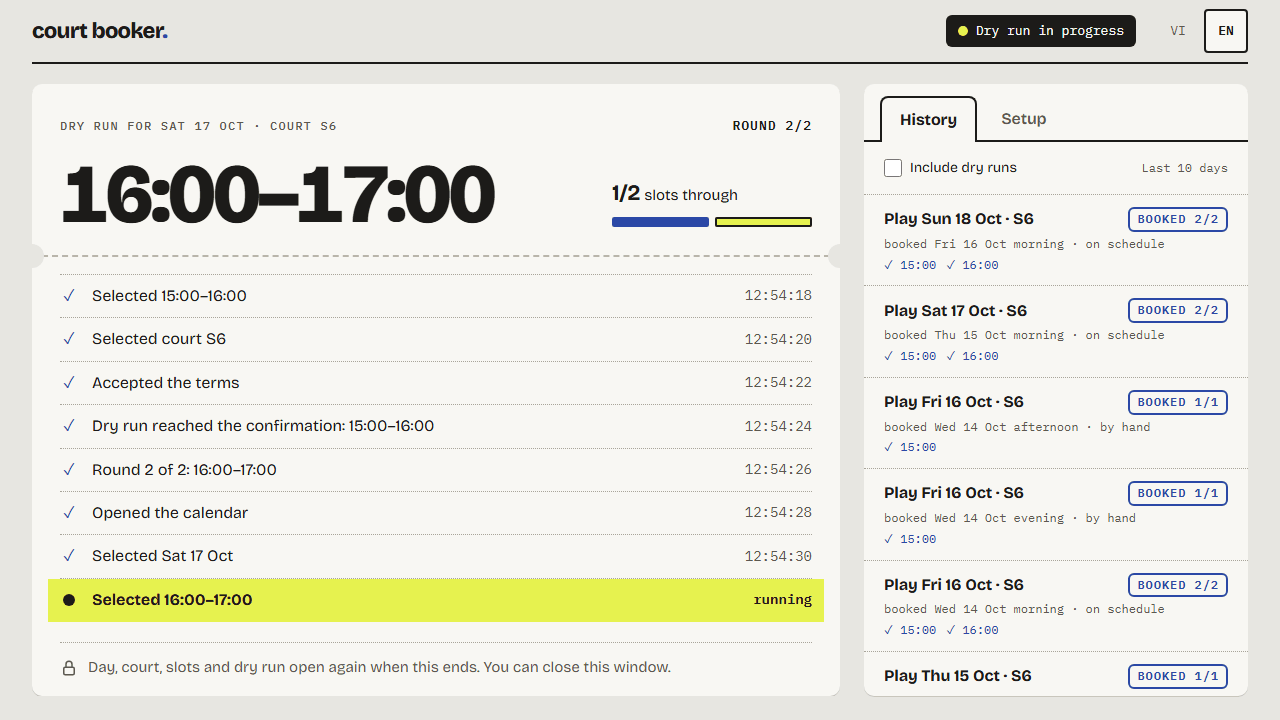
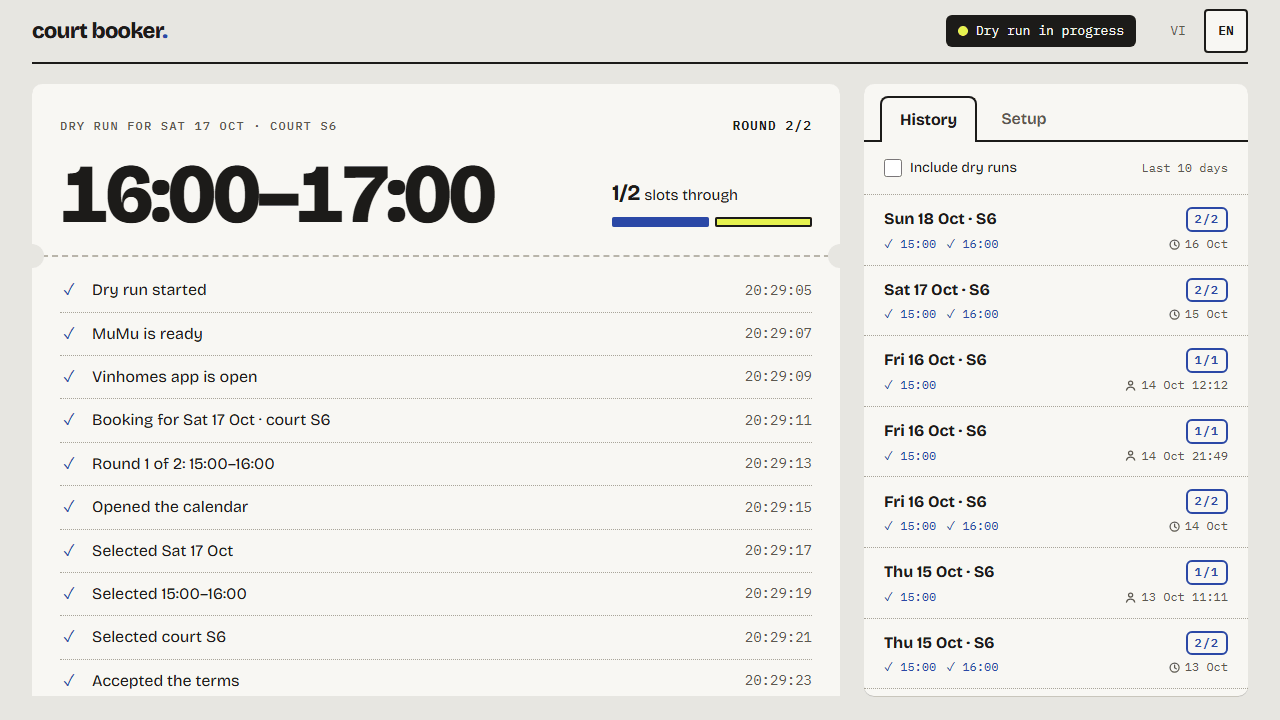
feat: show each run of the History in two lines
A row names the play day with a short weekday and the court, with a count
(2/2, 1/2, 0/2; THỬ for a dry run) in place of the worded stamp, then the
slots and when the run started after a clock (on schedule) or a person (by
hand). Why a slot failed shows on hover and to screen readers; the run
itself keeps the full stamp and the reasons. README screenshots retaken.

diff --git a/ui/src/pages/home/HistoryTab.tsx b/ui/src/pages/home/HistoryTab.tsx
@@ -3,16 +3,17 @@ import { Link, useSearchParams } from "react-router";
 import { useRunDays } from "../../api/queries";
 import type { RunSummary } from "../../api/types";
 import { Button } from "../../components/Button";
+import { Icon, type IconName } from "../../components/Icon";
 import { QueryView } from "../../components/QueryView";
 import { EmptyState } from "../../components/States";
 import { Stamp } from "../../components/Stamp";
 import { DAYS_SHOWN, runDay } from "../../days";
 import { failureReason } from "../../reasons";
-import { runStamp } from "../../runs";
+import { runMark, runOrigin, runStamp } from "../../runs";
 import { useFormat } from "../../useFormat";
 import styles from "./HistoryTab.module.css";
 import { RunDetail } from "./RunDetail";
-import { runTitle, runWhen } from "./runText";
+import { runShortTitle } from "./runText";
 
 /** Return the run asked for in the address (`?run=12`), if it is a run id. */
 function requestedRun(params: URLSearchParams): number | undefined {
@@ -21,8 +22,9 @@ function requestedRun(params: URLSearchParams): number | undefined {
 }
 
 /**
- * Each slot of a run by its start: "✓ 18:00", "✕ 19:00 Hết chỗ"; a dry run marks a slot it
- * went through with "○", having booked nothing. A run that stopped before any slot says why.
+ * Each slot of a run by its start: "✓ 18:00", "✕ 19:00"; a dry run marks a slot it went
+ * through with "○", having booked nothing. Why a slot failed shows on hover and in the run
+ * itself, so the row stays one line. A run that stopped before any slot says why.
  */
 function SlotMarks({ run }: { run: RunSummary }) {
   const { t } = useTranslation();
@@ -39,9 +41,11 @@ function SlotMarks({ run }: { run: RunSummary }) {
       {run.slots.map(({ slot, ok, reason }) => {
         const start = f.slotStart(slot);
         if (!ok) {
+          const why = failureReason(t, f, reason);
           return (
-            <span key={slot} className={styles.failed}>
-              ✕ {start} {failureReason(t, f, reason)}
+            <span key={slot} className={styles.failed} title={why}>
+              ✕ {start}
+              <span className="visually-hidden"> {why}</span>
             </span>
           );
         }
@@ -57,22 +61,61 @@ function SlotMarks({ run }: { run: RunSummary }) {
   );
 }
 
-/** One run: what it booked, its stamp, when and how it went, and each slot; it opens the run. */
+/** The icon of how a run started: a clock on schedule, a person by hand or as a dry run. */
+const ORIGIN_ICONS: Record<string, IconName> = {
+  scheduled: "clock",
+  manual: "person",
+  dry_run: "person",
+};
+
+/**
+ * When a run started, short ("15/10 08:32", the day alone on schedule), after the icon of how
+ * it started; the MuMu instance of a run beside the first ends it.
+ */
+function StartedAt({ run }: { run: RunSummary }) {
+  const { t } = useTranslation();
+  const f = useFormat();
+  const origin = runOrigin(t, run.trigger);
+  const icon = ORIGIN_ICONS[run.trigger];
+  return (
+    <span className={styles.when} title={origin}>
+      {icon !== undefined && <Icon name={icon} />}
+      <span className="visually-hidden">{origin} </span>
+      {f.shortDate(run.started_at)}
+      {/* A run on schedule starts at the wake time, the same every day. */}
+      {run.trigger === "scheduled" ? "" : ` ${f.time(run.started_at)}`}
+      {run.device ? ` · ${t("pages.ticket.instanceName", { index: run.device })}` : ""}
+    </span>
+  );
+}
+
+/**
+ * One run in two lines: what it booked and its mark ("2/2"), then each slot and when it
+ * started; it opens the run, where the full stamp, the reasons and the steps are.
+ */
 function RunRow({ run }: { run: RunSummary }) {
   const { t } = useTranslation();
   const f = useFormat();
+  const mark = runMark(t, run);
   const stamp = runStamp(t, run);
   return (
     <li className={styles.item}>
       <Link to={{ search: `?run=${run.id}` }} className={styles.row}>
         <span className={styles.head}>
-          <span className={styles.title}>{runTitle(t, f, run)}</span>
-          <Stamp tone={stamp.tone} size="small">
-            {stamp.text}
-          </Stamp>
+          <span className={styles.title}>{runShortTitle(t, f, run)}</span>
+          <span title={stamp.text}>
+            <span aria-hidden="true">
+              <Stamp tone={mark.tone} size="small">
+                {mark.text}
+              </Stamp>
+            </span>
+            <span className="visually-hidden">{stamp.text}</span>
+          </span>
         </span>
-        <span className={styles.meta}>{runWhen(t, f, run)}</span>
-        <SlotMarks run={run} />
+        <span className={styles.line}>
+          <SlotMarks run={run} />
+          <StartedAt run={run} />
+        </span>
       </Link>
     </li>
   );

diff --git a/ui/src/pages/home/HistoryTab.test.tsx b/ui/src/pages/home/HistoryTab.test.tsx
@@ -133,8 +133,9 @@ describe("History list", () => {
     const { fetch } = renderApp(paths.overview, REPLIES);
 
     expect(await rows()).toEqual([
-      "Chơi Thứ Bảy 17/10 · S6ĐẶT ĐƯỢC 1/2đặt sáng nay 15/10 · theo hẹn giờ✓ 15:00✕ 16:00 Hết chỗ",
-      "Lần chạy Thứ Hai 12/10KHÔNG ĐẶT ĐƯỢCđặt sáng Thứ Hai 12/10 · chạy tay✕ Đang có lần chạy khác",
+      // The hidden words after the mark and a failed slot are for screen readers.
+      "T7 17/10 · S61/2ĐẶT ĐƯỢC 1/2✓ 15:00✕ 16:00 Hết chỗtheo hẹn giờ 15/10",
+      "T2 12/10✕KHÔNG ĐẶT ĐƯỢC✕ Đang có lần chạy khácchạy tay 12/10 08:32",
     ]);
     const query = new URL(fetch.mock.calls.find(([r]) => r.url.includes("/api/runs"))![0].url);
     expect(Object.fromEntries(query.searchParams)).toEqual({ days: "10", limit: "500" });
@@ -148,7 +149,7 @@ describe("History list", () => {
 
     const shown = await rows();
     expect(shown).toHaveLength(3);
-    expect(shown[1]).toBe("Chơi Thứ Bảy 17/10 · S6CHẠY THỬ ĐẠTchạy thử tối hôm qua 14/10○ 18:00");
+    expect(shown[1]).toBe("T7 17/10 · S6THỬCHẠY THỬ ĐẠT○ 18:00chạy thử 14/10 19:43");
     expect(requestsTo(fetch, "GET /api/runs")).toBe(1);
   });
 
@@ -173,7 +174,7 @@ describe("History list", () => {
     fireEvent.click(within(history).getByRole("button", { name: "Xem thêm 10 ngày trước" }));
 
     await waitFor(async () => expect(await rows()).toHaveLength(12));
-    expect((await rows()).at(-1)).toContain("đặt sáng Thứ Sáu 02/10");
+    expect((await rows()).at(-1)).toMatch(/theo hẹn giờ 02\/10$/);
     const query = new URL(fetch.mock.calls.at(-1)![0].url).searchParams;
     expect(Object.fromEntries(query)).toEqual({ days: "10", limit: "500", before: "111" });
     expect(within(history).queryByRole("button")).not.toBeInTheDocument();
@@ -191,8 +192,8 @@ describe("History list", () => {
     renderApp(paths.overview, { "GET /api/runs": reply([other, { ...PARTIAL, device: 0 }]) });
 
     const [first, second] = await rows();
-    expect(first).toContain("đặt sáng nay 15/10 · theo hẹn giờ · MuMu 1");
-    expect(second).toContain("đặt sáng nay 15/10 · theo hẹn giờ✓"); // the first instance
+    expect(first).toMatch(/theo hẹn giờ 15\/10 · MuMu 1$/);
+    expect(second).toMatch(/theo hẹn giờ 15\/10$/); // the first instance
   });
 
   it("says when there are dry runs only", async () => {
@@ -209,7 +210,7 @@ describe("History list", () => {
     const history = await screen.findByRole("tabpanel", { name: "History" });
     const list = await within(history).findByRole("list");
     expect(within(list).getAllByRole("link")[0]).toHaveTextContent(
-      "Play Sat 17 Oct · S6BOOKED 1/2booked this morning 15 Oct · on schedule✓ 15:00✕ 16:00 Fully booked",
+      "Sat 17 Oct · S61/2BOOKED 1/2✓ 15:00✕ 16:00 Fully bookedon schedule 15 Oct",
     );
   });
 });
@@ -220,7 +221,7 @@ describe("History run", () => {
     await rows();
     fireEvent.click(screen.getByRole("checkbox", { name: "Gồm cả chạy thử" }));
 
-    fireEvent.click(screen.getByRole("link", { name: /^Chơi Thứ Bảy 17\/10 · S6ĐẶT ĐƯỢC/ }));
+    fireEvent.click(screen.getByRole("link", { name: /^T7 17\/10 · S6\s*ĐẶT ĐƯỢC 1\/2/ }));
 
     const run = await screen.findByRole("article", { name: "Chơi Thứ Bảy 17/10 · S6" });
     expect(router.state.location.search).toBe("?run=26");

diff --git a/ui/src/runs.test.ts b/ui/src/runs.test.ts
@@ -1,6 +1,6 @@
 import { describe, expect, it } from "vitest";
 import i18n from "./i18n";
-import { runOrigin, runStamp } from "./runs";
+import { runMark, runOrigin, runStamp } from "./runs";
 
 const vi_ = i18n.getFixedT("vi");
 const en = i18n.getFixedT("en");
@@ -32,6 +32,26 @@ describe("runStamp", () => {
     expect(runStamp(en, run({})).text).toBe("BOOKED 2/2");
     expect(runStamp(en, run({ status: "failed", booked: 0 })).text).toBe("NOT BOOKED 0/2");
     expect(runStamp(en, run({ dry_run: true, booked: 0 })).text).toBe("DRY RUN FAILED");
+  });
+});
+
+describe("runMark", () => {
+  it.each([
+    [run({}), "2/2", "booked"],
+    [run({ status: "partial", booked: 1 }), "1/2", "failed"],
+    [run({ status: "failed", booked: 0 }), "0/2", "failed"],
+    [run({ status: "failed", booked: 0, total: 0 }), "✕", "failed"],
+    [run({ dry_run: true }), "THỬ", "muted"],
+    [run({ dry_run: true, status: "partial", booked: 1 }), "THỬ 1/2", "failed"],
+    [run({ dry_run: true, status: "failed", booked: 0, total: 0 }), "THỬ ✕", "failed"],
+    [run({ status: "interrupted", booked: 1 }), "DỪNG", "failed"],
+    [run({ status: "running", booked: 0, total: 0 }), "ĐANG CHẠY", "booked"],
+  ])("marks %j as %j", (counts, text, tone) => {
+    expect(runMark(vi_, counts)).toEqual({ text, tone });
+  });
+
+  it("marks a dry run in English", () => {
+    expect(runMark(en, run({ dry_run: true })).text).toBe("DRY");
   });
 });
 

diff --git a/ui/src/runs.ts b/ui/src/runs.ts
@@ -42,6 +42,29 @@ export function runStamp(t: TFunction, run: RunCounts): RunMark {
     : { text: t("runs.stamp.partial", counts), tone: "failed" };
 }
 
+/**
+ * Return a run's mark for a row of a list, in as few characters as its stamp allows: "2/2"
+ * in stamp blue, "1/2" or "0/2" in orange-red, "✕" for a run that stopped before any slot;
+ * a dry run reads "THỬ", "THỬ 1/2" or "THỬ ✕". The tone is the stamp's.
+ */
+export function runMark(t: TFunction, run: RunCounts): RunMark {
+  const { tone } = runStamp(t, run);
+  if (run.status === "running" || run.status === "interrupted") {
+    return { text: t(`runs.mark.${run.status}`), tone };
+  }
+  const counts = { booked: run.booked, total: run.total };
+  if (run.dry_run) {
+    if (run.booked === 0) {
+      return { text: t("runs.mark.dryFailed"), tone };
+    }
+    return {
+      text: t(run.booked === run.total ? "runs.mark.dry" : "runs.mark.dryCount", counts),
+      tone,
+    };
+  }
+  return { text: t(run.total === 0 ? "runs.mark.failed" : "runs.mark.count", counts), tone };
+}
+
 /** What starts a run (cli.run_trigger); the History tells the 06:00 runs from the others. */
 const ORIGINS = ["scheduled", "manual", "dry_run"] as const;
 

diff --git a/ui/src/pages/home/runText.ts b/ui/src/pages/home/runText.ts
@@ -14,6 +14,13 @@ export function runTitle(t: TFunction, f: Formatter, run: RunFacts): string {
     : t("pages.history.runOn", { day: f.day(run.started_at) });
 }
 
+/** Name a run in a list row: "T2 26/10 · S6", or the day it ran ("T2 12/10") before a date. */
+export function runShortTitle(t: TFunction, f: Formatter, run: RunFacts): string {
+  return run.play_date !== null && run.court !== null
+    ? t("pages.history.short", { day: f.shortDay(run.play_date), court: f.court(run.court) })
+    : f.shortDay(run.started_at);
+}
+
 /**
  * Say when and how a run went: "đặt sáng nay 24/10 · theo hẹn giờ", "chạy thử chiều hôm qua
  * 23/10". A day further away names itself already ("sáng Thứ Hai 19/10"). A run of another

diff --git a/ui/src/pages/home/HistoryTab.module.css b/ui/src/pages/home/HistoryTab.module.css
@@ -78,8 +78,12 @@
   font-weight: var(--weight-bold);
 }
 
-.meta,
-.slots {
+/* The slots on the left, when the run started on the right. */
+.line {
+  display: flex;
+  align-items: baseline;
+  justify-content: space-between;
+  gap: var(--space-3);
   color: var(--color-muted);
   font-family: var(--font-mono);
   font-size: var(--text-label);
@@ -89,6 +93,14 @@
   display: flex;
   flex-wrap: wrap;
   gap: var(--space-1) 10px;
+}
+
+.when {
+  flex: none;
+  display: inline-flex;
+  align-items: center;
+  gap: var(--space-1);
+  align-self: center;
 }
 
 .booked {

diff --git a/ui/src/components/Icon.tsx b/ui/src/components/Icon.tsx
@@ -6,6 +6,8 @@ const PATHS = {
   calendar: "M2.5 4.5h11v9h-11zM2.5 7.5h11M5.5 2.5v3M10.5 2.5v3",
   /** A clock: a time set ahead, such as the wake time or a run on schedule. */
   clock: "M8 2.5a5.5 5.5 0 1 0 0 11a5.5 5.5 0 1 0 0-11zM8 5v3.25l2 1.25",
+  /** A person: something someone started by hand. */
+  person: "M8 2.5a2.5 2.5 0 1 0 0 5a2.5 2.5 0 1 0 0-5zM3 13.5c.7-2.4 2.6-3.5 5-3.5s4.3 1.1 5 3.5",
 } as const;
 
 export type IconName = keyof typeof PATHS;

diff --git a/README.md b/README.md
@@ -208,8 +208,9 @@ The UI is one screen, without a menu:
   creates or removes the Windows task, once a dry run passed) and the play day on top; the
   court and up to two slots below, saved on each press, and a dry run; during a run, its
   steps as they happen.
-- **Lịch sử / History** on the right: each run with every slot booked or not and why (real
-  bookings, dry runs on request), and each run's steps with the technical log one click away.
+- **Lịch sử / History** on the right: each run in two lines, its play day, court and count
+  ("2/2"), then every slot booked or not and when it started (real bookings, dry runs on
+  request); one click opens the reasons, the steps and the technical log.
 - **Thiết lập / Setup** beside it: the steps only you can do (install MuMu and the Vinhomes
   app, log in), ticked by you; an auto setup for what the app can fix; the Windows
   notification switch; a short guide. It opens first, with a count, while anything is left.
@@ -219,7 +220,7 @@ Saving settings rewrites `config.toml` (its comments are dropped); the next run 
 <p>
   <img src="docs/img/home.png" width="49%" alt="Ready for 06:00: the ticket with the daily
   switch on and the play day, the court and two slots numbered in booking order, the last dry
-  run; the History lists each booking with its stamp and slots">
+  run; the History lists each booking with its count and slots">
   <img src="docs/img/setup.png" width="49%" alt="First use: the Setup tab opens with a count
   of three tasks, three lines on how to start and the steps to tick">
 </p>

diff --git a/docs/specs/0.5.0-desktop-app.md b/docs/specs/0.5.0-desktop-app.md
@@ -51,10 +51,11 @@ adds setup, settings, a schedule switch, history and an activity log around it.
   takes over a holder 2 minutes before the start.
 - **History:** every run writes to one SQLite database, whoever started it; the UI only reads.
   Everything is kept. The History lists the runs of ten days at a time, newest first, real
-  bookings unless "include dry runs" is ticked: what each booked, its stamp (booked n/m,
-  partly, none, dry run passed), when and how it started (on schedule or by hand), and each
-  slot booked or not with the reason. A run opens in place of the list with its slots, every
-  step and the technical log.
+  bookings unless "include dry runs" is ticked, each in two lines: its play day with a short
+  weekday and court, and a mark ("2/2", "1/2", "0/2", "THỬ" for a dry run) in the stamp's
+  colour; then each slot booked (✓) or not (✕, the reason on hover) and when it started, after
+  an icon of how (clock on schedule, person by hand). A run opens in place of the list with
+  its full stamp, its slots with their reasons, every step and the technical log.
 - **Language and design:** Vietnamese (default) and English, every string in translation files;
   the UI language is kept in browser storage, never in `config.toml`, and VI/EN also gives
   the Windows notification its language. Paper look: warm grey

diff --git a/CHANGELOG.md b/CHANGELOG.md
@@ -10,6 +10,10 @@ uses [Semantic Versioning](https://semver.org/).
 - The top of the ticket says less: the start day with a short weekday ("Sáng mai · T2 26/10"),
   the play day as a yellow tag with a calendar icon ("Sân T4 28/10") and the wake time with a
   clock icon ("Thức 05:50").
+- Each run in the History takes two lines: the play day and court with a count ("2/2",
+  "1/2", "0/2"; "THỬ" for a dry run) in place of the worded stamp, then the slots and when the
+  run started, after a clock (on schedule) or a person (by hand). Why a slot failed shows on
+  hover and in the run, which keeps its full stamp.
 
 ### Removed
 - The play day is no longer a setting: a run always books two days ahead, the newest day the
